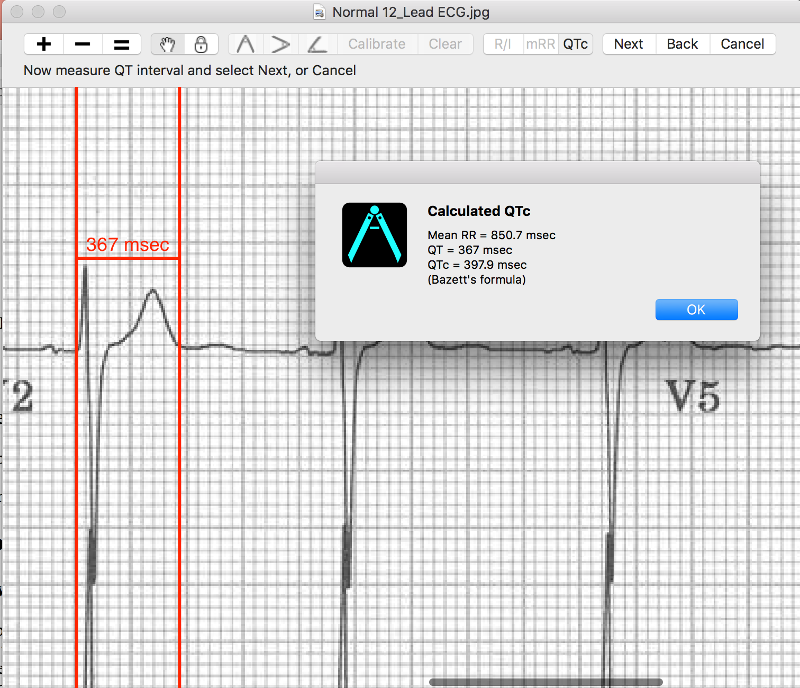
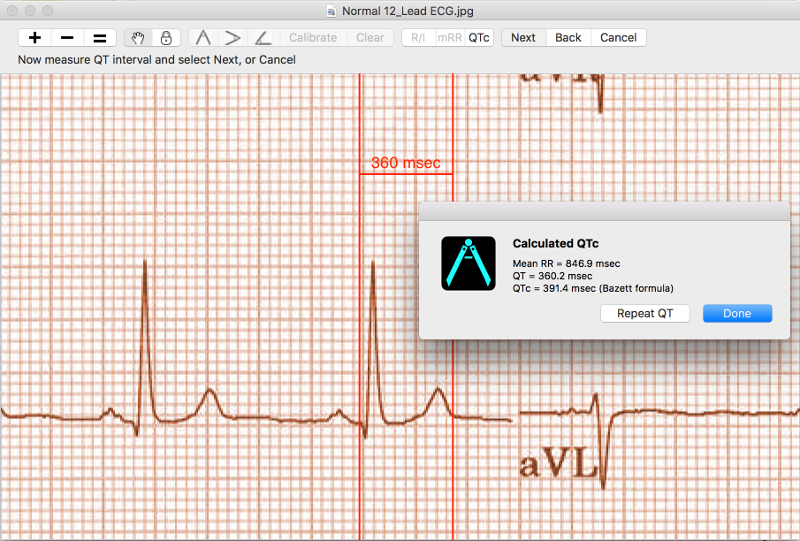
Add repeat QT measurement feature

diff --git a/EPCalipersHelp/Contents/Resources/fr.lproj/pgs/measurements.html b/EPCalipersHelp/Contents/Resources/fr.lproj/pgs/measurements.html
@@ -229,29 +229,29 @@ for the JavaScript code in this tag.
 </head>
 <body>
 <div id="content">
-<div id="outline-container-org077df6d" class="outline-2">
-<h2 id="org077df6d"><img src="../../shrd/icon_32x32@2x.png" alt="icon_32x32@2x.png" /> Prendre des mesures</h2>
-<div class="outline-text-2" id="text-org077df6d">
+<div id="outline-container-org45a2015" class="outline-2">
+<h2 id="org45a2015"><img src="../../shrd/icon_32x32@2x.png" alt="icon_32x32@2x.png" /> Prendre des mesures</h2>
+<div class="outline-text-2" id="text-org45a2015">
 </div>
-<div id="outline-container-org42382e0" class="outline-3">
-<h3 id="org42382e0">L’intervalle du compas</h3>
-<div class="outline-text-3" id="text-org42382e0">
+<div id="outline-container-org4746545" class="outline-3">
+<h3 id="org4746545">L’intervalle du compas</h3>
+<div class="outline-text-3" id="text-org4746545">
 <p>
 L’intervalle mesuré par chaque compas est indiqué au dessus ou à coté de la barre transversale du compas.  Avant l’étalonnage des compas, les mesures sont indiquées dans des unités arbitraires (des points, égals environ aux pixels d’écran).  Les compas d’angle montrent l’angle mesuré en degrés et il ne faut pas de les étalonner. 
 </p>
 </div>
 </div>
-<div id="outline-container-org3fcd168" class="outline-3">
-<h3 id="org3fcd168">Invites sur écran</h3>
-<div class="outline-text-3" id="text-org3fcd168">
+<div id="outline-container-org62d7814" class="outline-3">
+<h3 id="org62d7814">Invites sur écran</h3>
+<div class="outline-text-3" id="text-org62d7814">
 <p>
 Si la <a href="./preferences.html">préférence</a> <i>Des messages-guides</i> est choisi (c’est par défaut) l’application vous guidera avec des instructions détaillées sur comment on prend chaque mesure.  Après que vous apprenez comment faire les mesures vous pouvez désactiver cette préférence pour réduire le nombre des messages-guides.  Des messages-guides se montrent en haut de la fênetre, juste au-dessous des barres d’outils. Par exemple, en mesurant l’intervalle RR moyen, si la préférence <i>Des message-guides</i> est activée, l’application va d’abord vous inviter à choisir un compas de temps, puis l’étendre sur un nombre d’intervalles, et enfin cliquer <i>Prochain</i> sur la barre d’outils <i>Navigation</i>.  Une boîte de dialogue apparaîtra et demandera combien d’intervalles sont mesurés.  Après l’entrée du nombre et avoir cliqué sur le bouton <i>Calculer</i>, le résultat apparaîtra.  Si la préférence <i>Des messages-guides</i> est désactivée, vous pouvez choisir un compas et l’étendre sur un nombre d’intervalles sans messages-guides, et puis appuyer le bouton <i>FCM</i> (Fréquence cardiaque moyenne) ou la commande de menu <b>Compas | Intervalle moyen/Fréquence moyenne</b>.  Le resultat sera le même.
 </p>
 </div>
 </div>
-<div id="outline-container-org1ebda85" class="outline-3">
-<h3 id="org1ebda85">Étalonnage</h3>
-<div class="outline-text-3" id="text-org1ebda85">
+<div id="outline-container-orga9bbde9" class="outline-3">
+<h3 id="orga9bbde9">Étalonnage</h3>
+<div class="outline-text-3" id="text-orga9bbde9">
 <p>
 Il faut étalonner des compas avant que des mesures peuvent être faire.  Si la préférence <i>Des message-guides</i> est activée, appuyer le bouton <i>Étalonner</i> ou choisir la commande de menu <b>Compas | Étalonner</b>.  Suivre les invites sur écran pour choisir un compas et l’étendre sur un intervalle connu (p.e. 1000 msec pour un compas de temps ou 10 mm pour un compas d’amplitude).  Appuyer le bouton <i>Prochain</i>.  Dans la boîte de dialogue qui apparait, assurer-vous que l’intervalle correspond à la mesure.  Entrer l’intervalle d’étalonnage et les unités (les deux), p.e. 1000 msec ou 1 mV.  Appuyer le bouton <i>Étalonner</i> dans la boîte de dialogue pour fixer l’étalonnage.  Noter qu'il faut que les compas de temps et d'amplitude soient étalonnés individuellement.  Après l'étalonnage, les compas montreront les intervalles avec les unités utilisées pour les étalonner.  Des nouveaux compas créés utiliseront le même étalonnage.
 </p>
@@ -265,35 +265,35 @@ Il est important d’utiliser des unités de temps comme <i>msec</i> ou <i>sec</
 </p>
 </div>
 </div>
-<div id="outline-container-orgbcc136e" class="outline-3">
-<h3 id="orgbcc136e">Changement de l’étalonnage</h3>
-<div class="outline-text-3" id="text-orgbcc136e">
+<div id="outline-container-org9e51b1d" class="outline-3">
+<h3 id="org9e51b1d">Changement de l’étalonnage</h3>
+<div class="outline-text-3" id="text-org9e51b1d">
 <p>
 Vous pouvez réétalonner à tout moment.  L'étalonnage peut être complètement effacé en choisissant <b>Effacer</b> sur le menu d'étalonnage.  Noter que l'étalonnage continue quand l'image est zoomée.  La sélection d'une nouvelle image ou le changement du mode à la fenetre transparente effacera l'étalonnage.  Si vous voulez tourner l’image, vous devez d’abord effacer l’étalonnage.
 </p>
 </div>
 </div>
-<div id="outline-container-orgf0bf1c3" class="outline-3">
-<h3 id="orgf0bf1c3">Intervalle/fréquence</h3>
-<div class="outline-text-3" id="text-orgf0bf1c3">
+<div id="outline-container-org36c8b7c" class="outline-3">
+<h3 id="org36c8b7c">Intervalle/fréquence</h3>
+<div class="outline-text-3" id="text-org36c8b7c">
 <p>
 Après qu'un compas de temps est étalonné, si vous utilisez des unités du temps (par exemple msec ou sec) pour l'étalonnage, il est possible d'alterner entre les mesures d'intervalle (par exemple 600 msec) et les mesures de fréquence cardiaque (par exemple 100 bpm) en choisissant le bouton <i>I/FC</i> ou la commande de menu <b>Compas | Alterner intervalle/fréquence</b>.
 </p>
 </div>
 </div>
-<div id="outline-container-orge55b25f" class="outline-3">
-<h3 id="orge55b25f">Calcul de la fréquence moyenne et de l'intervalle moyen</h3>
-<div class="outline-text-3" id="text-orge55b25f">
+<div id="outline-container-orgd98142b" class="outline-3">
+<h3 id="orgd98142b">Calcul de la fréquence moyenne et de l'intervalle moyen</h3>
+<div class="outline-text-3" id="text-orgd98142b">
 <p>
 Sélectionner un compas étalonné et mesurer un nombre d'intervalles.  Choisir le bouton <i>FCM</i> et entrer le nombre d'intervalles mesurés.  Une boîte de dialogue montrera la fréquence cardiaque moyenne calculée et l'intervalle moyen.  Cela est utile pour le calcul des fréquences et des intervalles pendant un rythme irrégulier, par exemple la fibrillation auriculaire.
 </p>
 </div>
 </div>
-<div id="outline-container-orgc5a6335" class="outline-3">
-<h3 id="orgc5a6335">Calcul du QT corrigé</h3>
-<div class="outline-text-3" id="text-orgc5a6335">
+<div id="outline-container-orge5de128" class="outline-3">
+<h3 id="orge5de128">Calcul du QT corrigé</h3>
+<div class="outline-text-3" id="text-orge5de128">
 <p>
-La mesure de QTc est un procédé en plusieurs étapes et donc les messages-guides se montrent toujours.  Choisir le bouton <i>QTc</i> ou la commande de menu <b>Compas | Mesurer le QTc</b>.  Étendre le compas sélectionné sur un ou plusieurs intervalles RR et puis choisir le bouton <i>Prochain</i>.  Entrer le nombre d'intervalles étant mesurés et puis choisir <b>Continuer</b>.  Utiliser le même compas pour mesurer l'intervalle QT.  Choisir le bouton <i>Prochain</i>.  Une boîte de dialogue montrera le QT calculé en utilisant la formule de Bazett par défaut.  On peut changer la formule en utilisant <a href="./preferences.html">les préférences</a>.
+La mesure de QTc est un procédé en plusieurs étapes et donc les messages-guides se montrent toujours.  Choisir le bouton <i>QTc</i> ou la commande de menu <b>Compas | Mesurer le QTc</b>.  Étendre le compas sélectionné sur un ou plusieurs intervalles RR et puis choisir le bouton <i>Prochain</i>.  Entrer le nombre d'intervalles étant mesurés et puis choisir <b>Continuer</b>.  Utiliser le même compas pour mesurer l'intervalle QT.  Choisir le bouton <i>Prochain</i>.  Une boîte de dialogue montrera le QT calculé en utilisant la formule de Bazett par défaut.  Choisir <b>Répéter QT</b> pour faire une nouvelle mesure du QT avec le même intervalle RR, ou choisir <b>OK</b> pour terminer.  On peut changer la formule en utilisant <a href="./preferences.html">les préférences</a>.
 </p>
 
 <div class="figure">
@@ -304,9 +304,9 @@ La mesure de QTc est un procédé en plusieurs étapes et donc les messages-guid
 </div>
 </div>
 
-<div id="outline-container-org687b961" class="outline-3">
-<h3 id="org687b961"><a id="orgf43885b"></a>Brugadometer</h3>
-<div class="outline-text-3" id="text-org687b961">
+<div id="outline-container-org6b22ead" class="outline-3">
+<h3 id="org6b22ead"><a id="org0acfdb1"></a>Brugadometer</h3>
+<div class="outline-text-3" id="text-org6b22ead">
 <p>
 Le <b>Brugadometer</b> est un outil de diagnostic, utilisé pour l'analyse du syndrome de Brugada.  Cet outil a été développé en collaboration avec Dr. Adrian Baranchuk et ses collègues à l'Université Queens, Kingston, en Ontario.  Le Brugadometer peut distinguer entre un bloc de branche droite incomplète, et un motif du syndrome de Brugada aux fils V1 ou V2.  Cet outil est en cours de développement dans <b>Compas EP</b> et il évoluera dans des futures versions.  Pour utiliser le <b>Brugadometer</b>, il faut étalonner un compas de temps en msec ou mm et un compas d'amplitude en mm.  Ensuite, un compas d'angle apparaîtra avec un triangle au sommet comme ceci.
 </p>

diff --git a/EPCalipersHelp/Contents/Resources/English.lproj/pgs/measurements.html b/EPCalipersHelp/Contents/Resources/English.lproj/pgs/measurements.html
@@ -229,29 +229,29 @@ for the JavaScript code in this tag.
 </head>
 <body>
 <div id="content">
-<div id="outline-container-orgbf1a597" class="outline-2">
-<h2 id="orgbf1a597"><img src="../../shrd/icon_32x32@2x.png" alt="icon_32x32@2x.png" /> Making measurements</h2>
-<div class="outline-text-2" id="text-orgbf1a597">
+<div id="outline-container-org99dad6e" class="outline-2">
+<h2 id="org99dad6e"><img src="../../shrd/icon_32x32@2x.png" alt="icon_32x32@2x.png" /> Making measurements</h2>
+<div class="outline-text-2" id="text-org99dad6e">
 </div>
-<div id="outline-container-org41eb6a2" class="outline-3">
-<h3 id="org41eb6a2">Caliper interval</h3>
-<div class="outline-text-3" id="text-org41eb6a2">
+<div id="outline-container-org4c49eec" class="outline-3">
+<h3 id="org4c49eec">Caliper interval</h3>
+<div class="outline-text-3" id="text-org4c49eec">
 <p>
 The interval measured by each caliper is displayed on top of or next to the crossbar of the caliper.  Until the calipers are calibrated, measurements are displayed in arbitrary units (<i>points</i>, roughly equivalent to screen pixels).  Angle calipers show a measurement of the current angle in degrees and do not need to be calibrated to display angles.
 </p>
 </div>
 </div>
-<div id="outline-container-org72f1331" class="outline-3">
-<h3 id="org72f1331">Measurement prompts</h3>
-<div class="outline-text-3" id="text-org72f1331">
+<div id="outline-container-orgfe48ae4" class="outline-3">
+<h3 id="orgfe48ae4">Measurement prompts</h3>
+<div class="outline-text-3" id="text-orgfe48ae4">
 <p>
 If the Show Prompts <a href="./preferences.html">preference</a> is selected (it is by default) the program will guide you with detailed instructions on how to make each measurement.  When you become familiar with how to make measurements you may consider turning off the <i>Show Prompts</i> preference.  This minimizes the prompting the program gives.  Prompts appear at the top of the window, right under the toolbars.  For example, when measuring the mean RR interval, if <i>Show prompts</i> is enabled, the program will first prompt you to select a time caliper, stretch it over a number of intervals, and then click <b>Next</b> on the <i>Navigation Toolbar</i>.  A dialog will then appear asking how many intervals you are measuring.  After entering the number and clicking the calculate button, the result will appear.  If <i>Show prompts</i> is disabled, you can select a caliper and stretch it over a number of intervals without prompting, and then press the <b>mRR</b> (mean RR) button or the <b>Caliper | Mean Rate/Interval</b> menu item.  The rest of the process is the same.
 </p>
 </div>
 </div>
-<div id="outline-container-org969c49f" class="outline-3">
-<h3 id="org969c49f">Calibration</h3>
-<div class="outline-text-3" id="text-org969c49f">
+<div id="outline-container-org18f99bd" class="outline-3">
+<h3 id="org18f99bd">Calibration</h3>
+<div class="outline-text-3" id="text-org18f99bd">
 <p>
 Calibration is necessary before any measurements can be made!  If the <i>Show prompts</i> preference is enabled, select the <b>Calibrate</b> button or the <b>Caliper | Calibrate</b> menu item.  Follow the prompts to select a caliper and stretch it over a known interval (such as 1000 msec for time, or 10 mm for amplitude calipers).  Select the <i>Next</i> button.  In the dialog box that appears, make sure the interval matches what you are measuring.  Enter both the calibration interval and units (e.g. 1000 msec,  or 1 mV).  Select the <i>Calibrate</i> button in the dialog box to set the calibration.  Note that time and amplitude calipers need to be calibrated separately.  Once calibrated, calipers will show intervals in the units used to calibrate.  Newly created calipers will use the same calibration.
 </p>
@@ -265,35 +265,35 @@ It is important to use time units such as <i>msec</i> or <i>sec</i> when providi
 </p>
 </div>
 </div>
-<div id="outline-container-org342f985" class="outline-3">
-<h3 id="org342f985">Changing calibration</h3>
-<div class="outline-text-3" id="text-org342f985">
+<div id="outline-container-org53cf723" class="outline-3">
+<h3 id="org53cf723">Changing calibration</h3>
+<div class="outline-text-3" id="text-org53cf723">
 <p>
 You can recalibrate at any time just by repeating the calibration process.  You can clear all calibration by selecting <b>Clear</b> in the <i>Calibration Toolbar</i>.  Note that calibration is maintained if the image is zoomed.  However, if you are using transparent window mode, you must manually recalibrate if you zoom the image on the Desktop (for example an image loaded in the Preview app).  Selecting a new image will reset calibration.  If you need to rotate the image, you must first clear calibration.
 </p>
 </div>
 </div>
-<div id="outline-container-orga4e821a" class="outline-3">
-<h3 id="orga4e821a">Interval/Rate</h3>
-<div class="outline-text-3" id="text-orga4e821a">
+<div id="outline-container-orgde73002" class="outline-3">
+<h3 id="orgde73002">Interval/Rate</h3>
+<div class="outline-text-3" id="text-orgde73002">
 <p>
 Once a time caliper is calibrated, provided you use time units (such as msec or sec) for the calibration, it is possible to toggle between interval measurements (e.g. 600 msec) and heart rate measurements (e.g. 100 bpm) by selecting the <b>R/I</b> button or <b>Caliper | Toggle Rate/Interval</b> menu command.
 </p>
 </div>
 </div>
-<div id="outline-container-orgea7efc6" class="outline-3">
-<h3 id="orgea7efc6">Mean rate and interval calculation</h3>
-<div class="outline-text-3" id="text-orgea7efc6">
+<div id="outline-container-orgf3ac356" class="outline-3">
+<h3 id="orgf3ac356">Mean rate and interval calculation</h3>
+<div class="outline-text-3" id="text-orgf3ac356">
 <p>
 Select a calibrated caliper and stretch it over a number of intervals.  Select the <b>mRR</b> button or <b>Caliper | Mean Rate/Interval</b> menu command and enter the number of intervals measured in the dialog box that appears.  Select the <b>Calculate</b> button to see the result.  If the <i>Show prompts</i> preference is selected, prompts will appear to guide you through the process.  Using <b>EP Calipers</b> to calculate mean rates and intervals is very useful in irregular rhythms, such as atrial fibrillation.
 </p>
 </div>
 </div>
-<div id="outline-container-orgf9a73ce" class="outline-3">
-<h3 id="orgf9a73ce">QTc calculation</h3>
-<div class="outline-text-3" id="text-orgf9a73ce">
+<div id="outline-container-org060ab1a" class="outline-3">
+<h3 id="org060ab1a">QTc calculation</h3>
+<div class="outline-text-3" id="text-org060ab1a">
 <p>
-QTc measurement is a multiple step process, and prompts are always shown.  Select the <b>QTc</b> button on the toolbar or the <b>Caliper | QTc Measurement</b> menu command.  Follow the prompt to stretch the selected caliper over one or more RR intervals and select the <b>Next</b> button.  Enter the number of intervals the caliper is stretched over and select <b>Continue</b>.  Then use the same caliper to measure the QT interval.  Select <b>Next</b>.  A dialog box will give the calculated QTc using Bazett's formula by default.  You can change the QTc formula using <a href="./preferences.html">Preferences</a>.
+QTc measurement is a multiple step process, and prompts are always shown.  Select the <b>QTc</b> button on the toolbar or the <b>Caliper | QTc Measurement</b> menu command.  Follow the prompt to stretch the selected caliper over one or more RR intervals and select the <b>Next</b> button.  Enter the number of intervals the caliper is stretched over and select <b>Continue</b>.  Then use the same caliper to measure the QT interval.  Select <b>Next</b>.  A dialog box will give the calculated QTc using Bazett's formula by default.  Select <b>Repeat QT</b> to make another QT measurement using the same measured RR interval.  Select <b>Done</b> to finish measuring the QTc.  You can change the QTc formula using <a href="./preferences.html">Preferences</a>.
 </p>
 
 <div class="figure">
@@ -304,9 +304,9 @@ QTc measurement is a multiple step process, and prompts are always shown.  Selec
 </div>
 </div>
 
-<div id="outline-container-org469b3cb" class="outline-3">
-<h3 id="org469b3cb">Brugadometer</h3>
-<div class="outline-text-3" id="text-org469b3cb">
+<div id="outline-container-orgdc606b9" class="outline-3">
+<h3 id="orgdc606b9">Brugadometer</h3>
+<div class="outline-text-3" id="text-orgdc606b9">
 <p>
 The <b>Brugadometer</b> is a diagnostic tool for Brugada syndrome developed in collaboration with Dr. Adrian Baranchuk and his colleagues at Queen's University Kingston, Ontario, Canada.  It is a tool intended to distinguish between ECGs with a Brugada syndrome pattern in leads V1 or V2 and ECGs with incomplete right bundle branch block.  This tool is under development in <b>EP Calipers</b> and will likely evolve in future updates.  In order to use the <b>Brugadometer</b>, it is necessary to calibrate an amplitude caliper in millimeters (mm) and to calibrate a time caliper preferably in msec or mm.  After doing so, an angle caliper will appear to have a triangle at its apex as shown below.
 </p>

diff --git a/EP Calipers/MainWindowController.swift b/EP Calipers/MainWindowController.swift
@@ -1263,8 +1263,13 @@ class MainWindowController: NSWindowController, NSTextFieldDelegate, CalipersVie
             alert.alertStyle = .informational
             alert.messageText = NSLocalizedString("Calculated QTc", comment:"")
             alert.informativeText = result
-            alert.addButton(withTitle: NSLocalizedString("OK", comment:""))
-            alert.runModal()
+            alert.addButton(withTitle: NSLocalizedString("Done", comment:""))
+            alert.addButton(withTitle: NSLocalizedString("Repeat QT", comment: ""))
+            let alertResult = alert.runModal()
+            if  alertResult == NSApplication.ModalResponse.alertSecondButtonReturn {
+                doQTcStep2()
+                return
+            }
         }
         exitQTc()
     }
